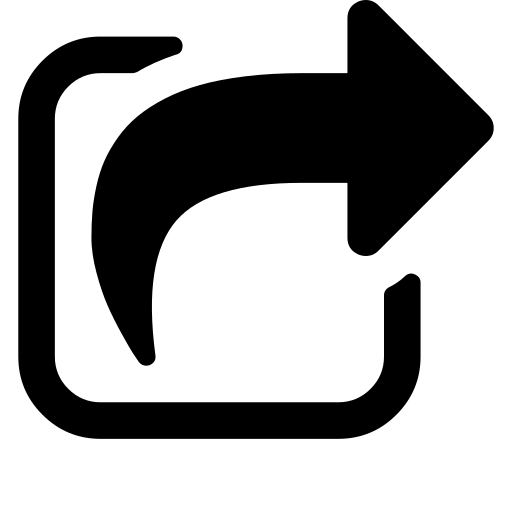
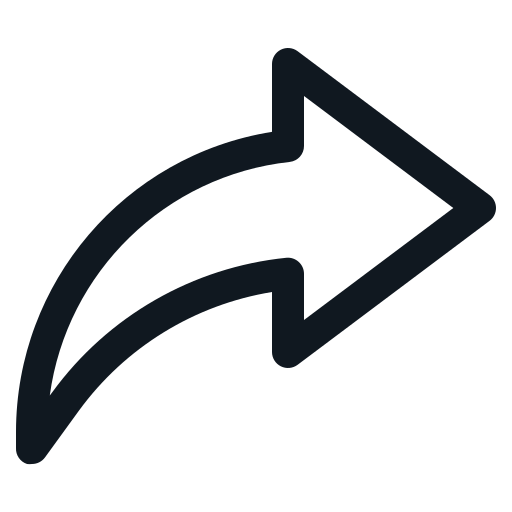
like part

diff --git a/socialproject/posts/templates/posts/feed.html b/socialproject/posts/templates/posts/feed.html
@@ -20,11 +20,16 @@
                     <img src="{{ post.image.url}}" >
                 </div>
                 <div class="px-6 py-4">
-                        <div class="icon-container flex gap-3">
-                            <img class="w-5 h-5" src="{% static 'user/images/share.png' %}" >
-                            <img class="w-5 h-5" src="{% static 'user/images/comment.png' %}" >
+                        <div class="icon-container flex gap-2">
+                            <p> {{ post.likenumber}} </p>
                             <a href="{% url 'like' post.pk %}" >
-                                <img class="w-5 h-5" src="{% static 'user/images/like.png' %}" > 
+                                <img class="w-5 h-5" src="{% static 'user/images/unlike.png' %}" >
+                            </a>
+                            <a href="" >
+                                <img class="w-5 h-5" src="{% static 'user/images/comment.png' %}" >
+                            </a>
+                            <a href="" >
+                                <img class="w-5 h-5" src="{% static 'user/images/share.png' %}" > 
                             </a>
                         </div>
                 </div>

diff --git a/socialproject/posts/migrations/0003_postmodel_likenumber.py b/socialproject/posts/migrations/0003_postmodel_likenumber.py
@@ -1,0 +1,17 @@
+# Generated by Django 5.0.3 on 2024-04-04 16:08
+
+from django.db import migrations, models
+
+
+class Migration(migrations.Migration):
+    dependencies = [
+        ("posts", "0002_postmodel_liked_by"),
+    ]
+
+    operations = [
+        migrations.AddField(
+            model_name="postmodel",
+            name="likenumber",
+            field=models.IntegerField(default=0),
+        ),
+    ]

diff --git a/socialproject/posts/views.py b/socialproject/posts/views.py
@@ -40,8 +40,10 @@ def like_post(request, pk):
     print(post.liked_by)
     if request.user in post.liked_by.all():
         post.liked_by.remove(request.user)
+        post.likenumber -= 1
     else:
         post.liked_by.add(request.user)
+        post.likenumber += 1
     print(post.liked_by)    
     context= {}
     #return render(request,'posts/feed.html',context=context)

diff --git a/socialproject/posts/models.py b/socialproject/posts/models.py
@@ -14,6 +14,7 @@ class PostModel(models.Model):
     created_at = models.DateTimeField(auto_now_add=True)
     liked_by = models.ManyToManyField(settings.AUTH_USER_MODEL,
                                       related_name='posts_liked', blank=True)
+    likenumber=models.IntegerField(default=0)
     
     def __str__(self):
         return self.title
